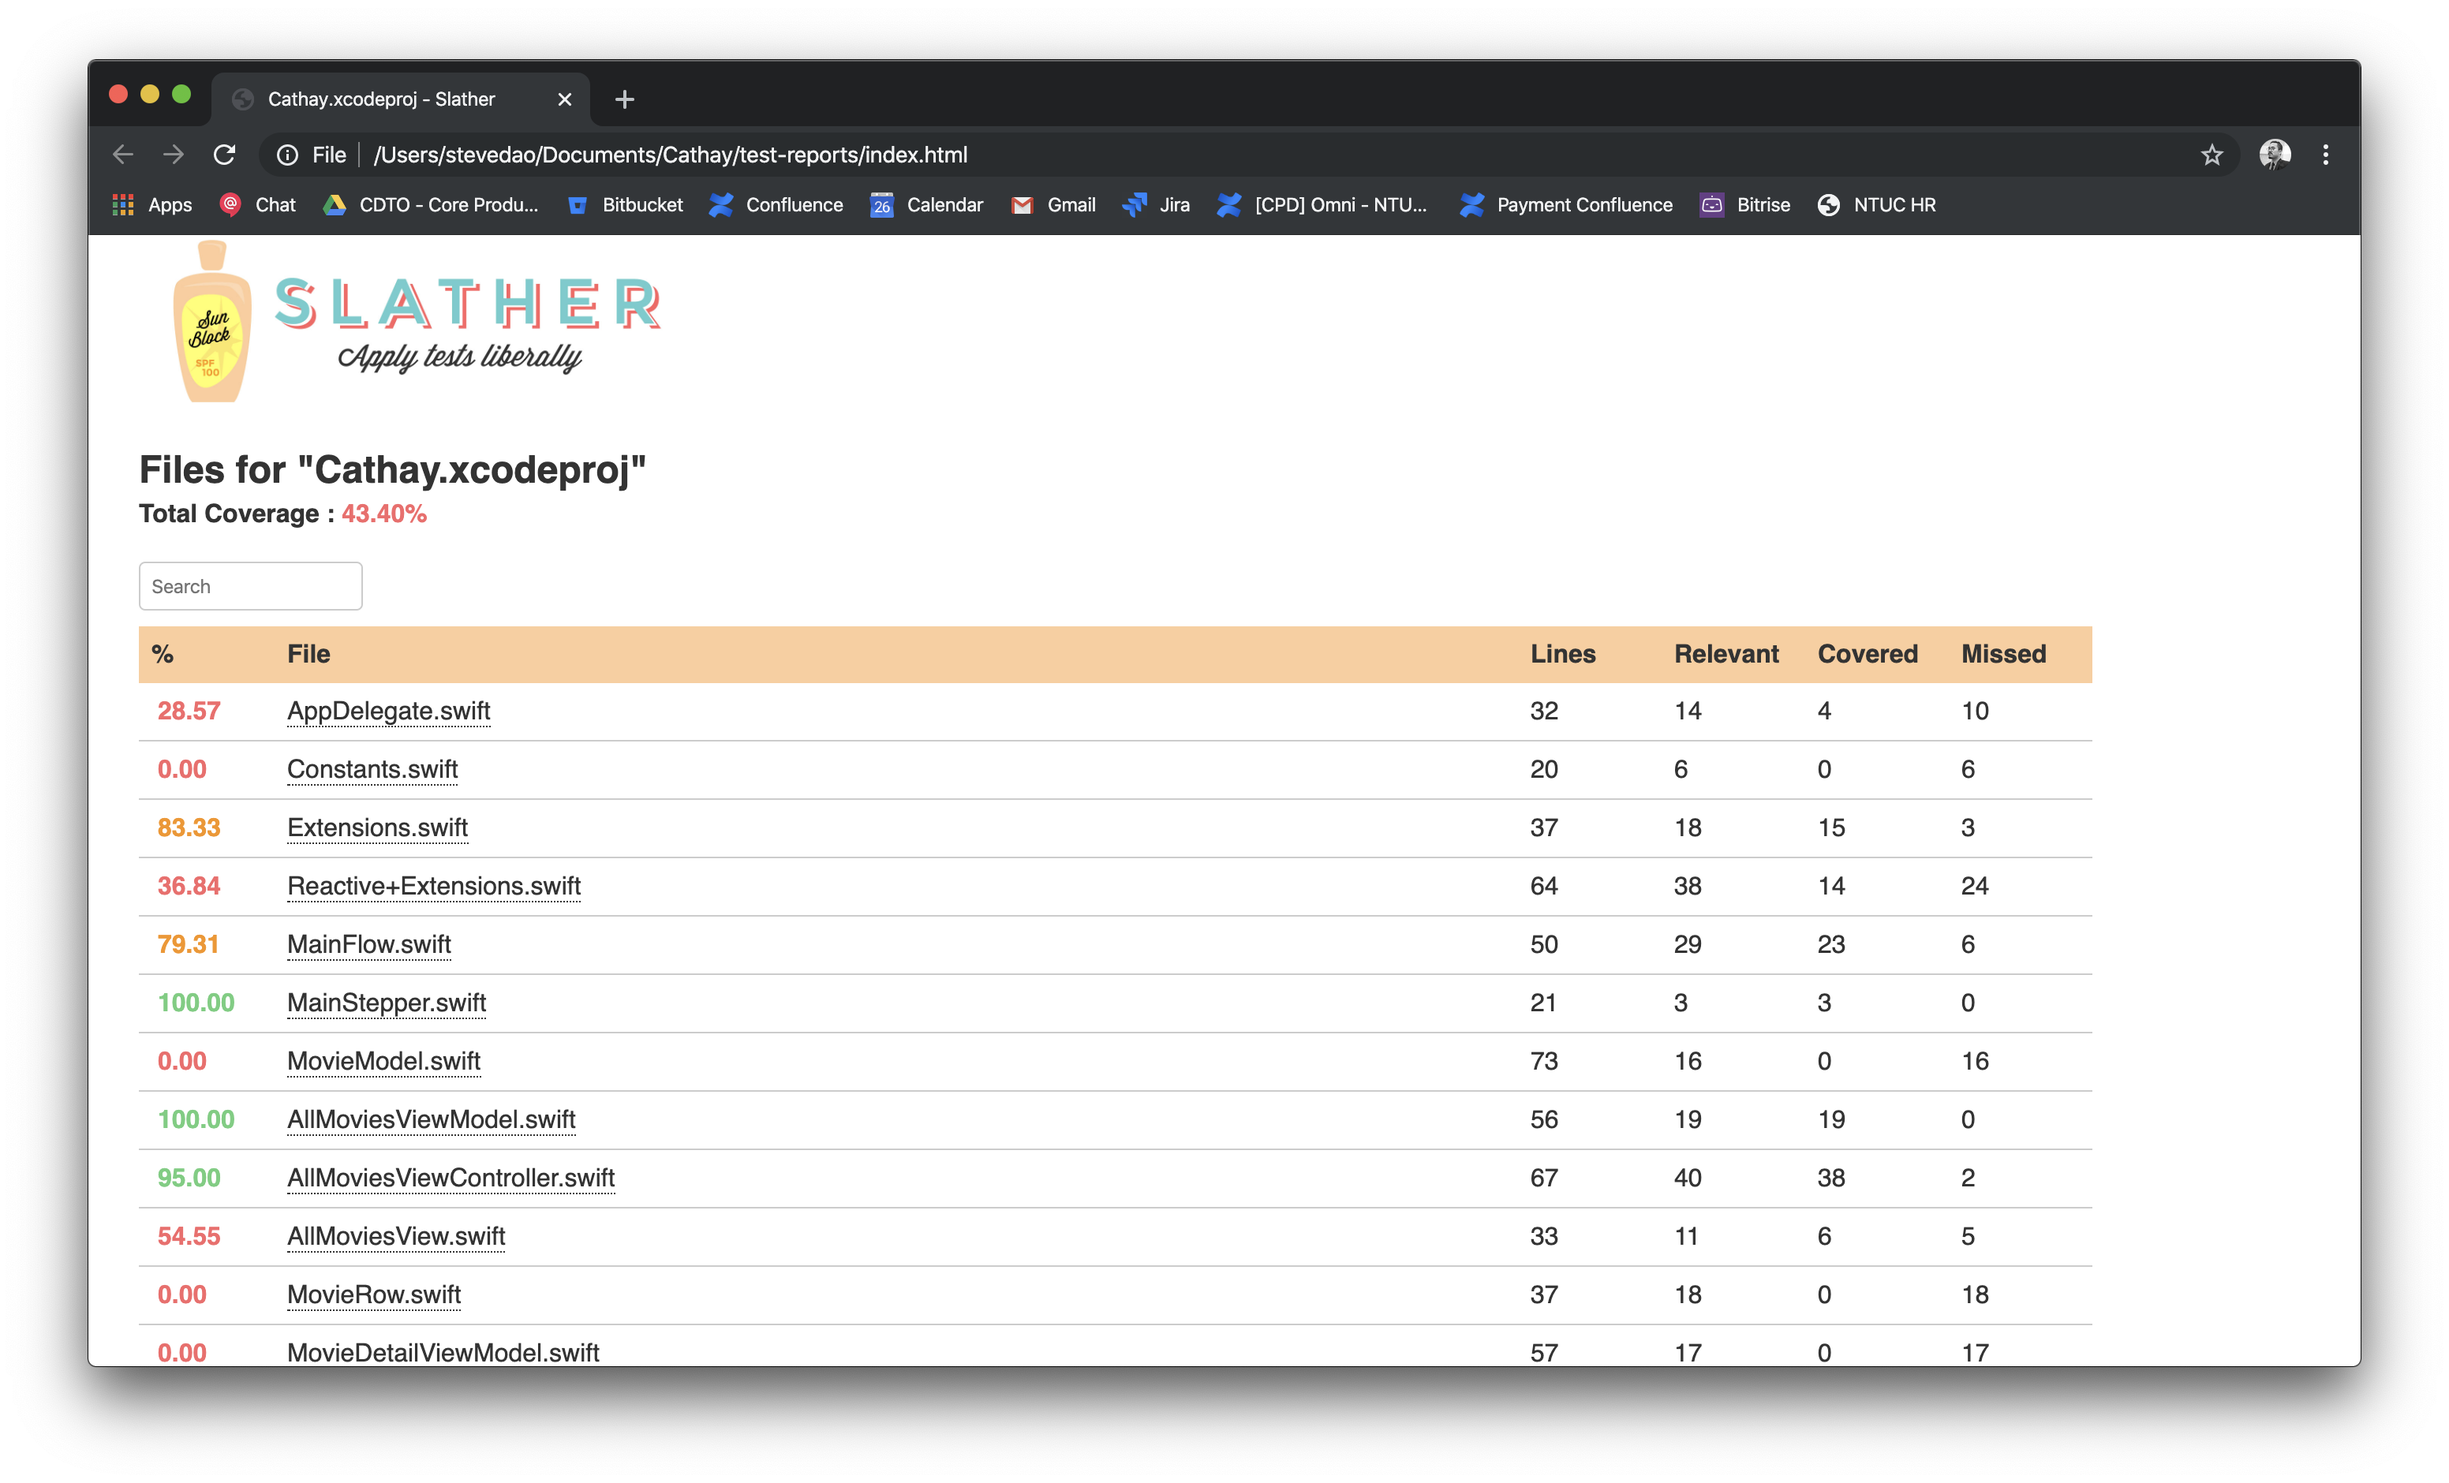
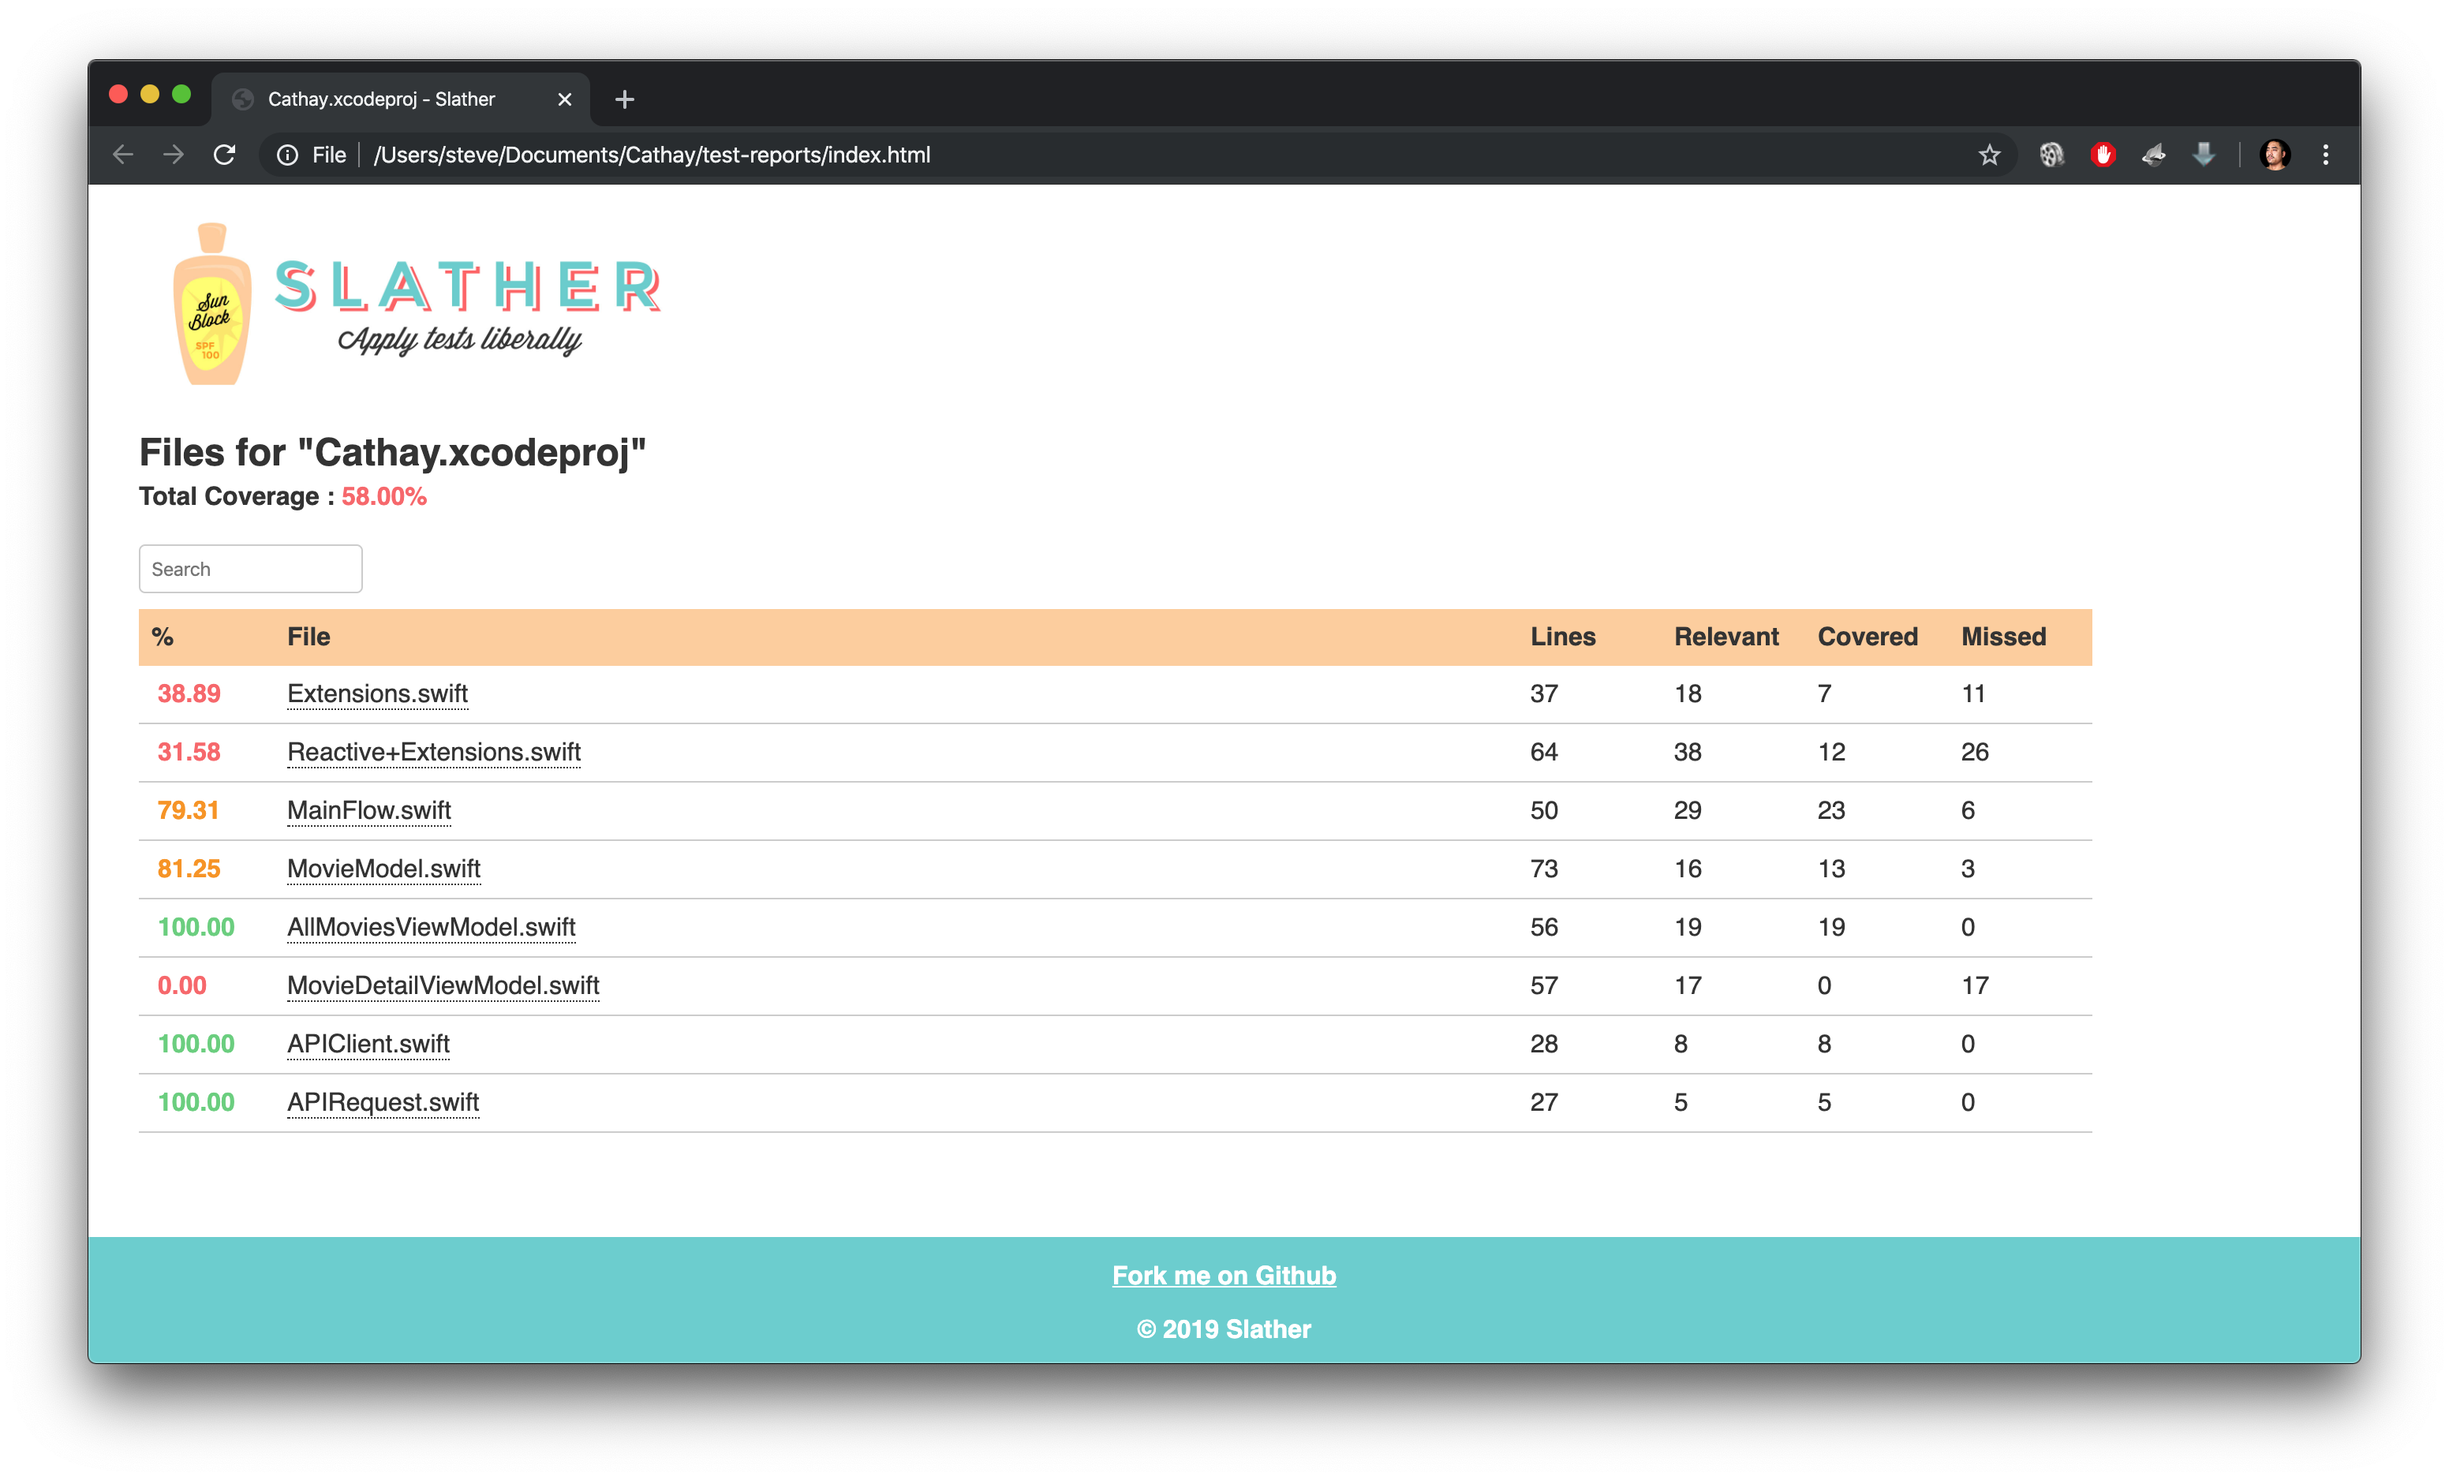
Stub network for unit tests

Changed region(s): [[0.0312, 0.0928, 0.9688, 0.9275], [0.6875, 0.6802, 0.75, 0.742]]

diff --git a/CathayTests/CommonTests/RepositoryTests.swift b/CathayTests/CommonTests/RepositoryTests.swift
@@ -1,0 +1,62 @@
+//
+//  RepositoryTests.swift
+//  CathayTests
+//
+//  Created by Steve on 11/29/19.
+//  Copyright © 2019 Steve. All rights reserved.
+//
+
+@testable import Cathay
+import UIKit
+import XCTest
+import RxSwift
+import RxCocoa
+import RxBlocking
+import OHHTTPStubs
+
+class RepositoryTests: XCTestCase {
+    
+    override func setUp() {
+        super.setUp()
+        guard let filePath = Bundle.main.url(forResource: "AllMovies", withExtension: "json")
+            else { fatalError("File not found!") }
+        let data = try! Data(contentsOf: filePath)
+        stub(condition: isHost("testsuccess.com")) { _ in OHHTTPStubsResponse(data: data, statusCode: 200, headers: nil) }
+        stub(condition: isHost("testfail.com")) { _ in OHHTTPStubsResponse(jsonObject: [:], statusCode: 200, headers: nil) }
+    }
+    
+    override func tearDown() {
+        super.tearDown()
+        OHHTTPStubs.removeAllStubs()
+    }
+    
+    func testAPICLientSucess() {
+        let request = APIRequest(url: "http://testsuccess.com", method: .get)
+        let result: Single<AllMoviesResponseModel> = APIClient.shared.request(request: request)
+        let response = try? result.toBlocking().single()
+        XCTAssertNotNil(response)
+    }
+    
+    func testAPICLientFail() {
+        let request = APIRequest(url: "http://testfail.com", method: .get)
+        let result: Single<AllMoviesResponseModel> = APIClient.shared.request(request: request)
+        let error = try? result.asObservable().materialize().map { $0.error }.filterNil().toBlocking().single()
+        XCTAssertNotNil(error)
+    }
+    
+    func testApiRequest() {
+        let request = APIRequest(url: "http://test.com", method: .get)
+        let urlRequest = URLRequest(url: URL(string: "http://test.com")!)
+        
+        XCTAssertEqual(request.urlRequest, urlRequest)
+    }
+    
+    func testMovieRepository() {
+        let successRepository = TestSuccessMovieRepository()
+        let movies = try? successRepository.loadAllMovies(page: 0).toBlocking().single()
+        let movie = try? successRepository.loadMovieDetail(id: "").toBlocking().single()
+        
+        XCTAssertNotNil(movies)
+        XCTAssertNotNil(movie)
+    }
+}

diff --git a/CathayTests/CommonTests/ModelTests.swift b/CathayTests/CommonTests/ModelTests.swift
@@ -18,4 +18,20 @@ class ModelTests: XCTestCase {
     func testMovieDetailModel() {
         XCTAssertNoThrow(try Bundle.main.getObject(fromJsonFile: "MovieDetail") as MovieModel)
     }
+    
+    func testMovieModelEqual() {
+        let movie1 = try! Bundle.main.getObject(fromJsonFile: "MovieDetail") as MovieModel
+        let movie2 = movie1
+        XCTAssertEqual(movie1, movie2)
+    }
+    
+    func testMovieModelUrlImage() {
+        let movie = try! Bundle.main.getObject(fromJsonFile: "MovieDetail") as MovieModel
+        XCTAssertNotNil(movie.posterImageURL)
+        XCTAssertNotNil(movie.backDropImageURL)
+    }
+    
+    func testMockData() {
+        XCTAssertTrue(MovieModel.mockData.isNotEmpty)
+    }
 }

diff --git a/Cathay/Repository/APIClient.swift b/Cathay/Repository/APIClient.swift
@@ -26,20 +26,3 @@ class APIClient: APIClientType {
             .asSingle()
     }
 }
-
-// Only for image data request
-class ImageAPIClient {
-    static let shared = ImageAPIClient()
-    private let urlSeesion: URLSession
-    
-    init() {
-        let configuration = URLSessionConfiguration.default
-        configuration.requestCachePolicy = .returnCacheDataElseLoad
-        
-        self.urlSeesion = URLSession(configuration: configuration)
-    }
-    
-    func requestImageData(fromUrl url: URL) -> Single<Data> {
-        return urlSeesion.rx.data(request: URLRequest(url: url)).asSingle()
-    }
-}
